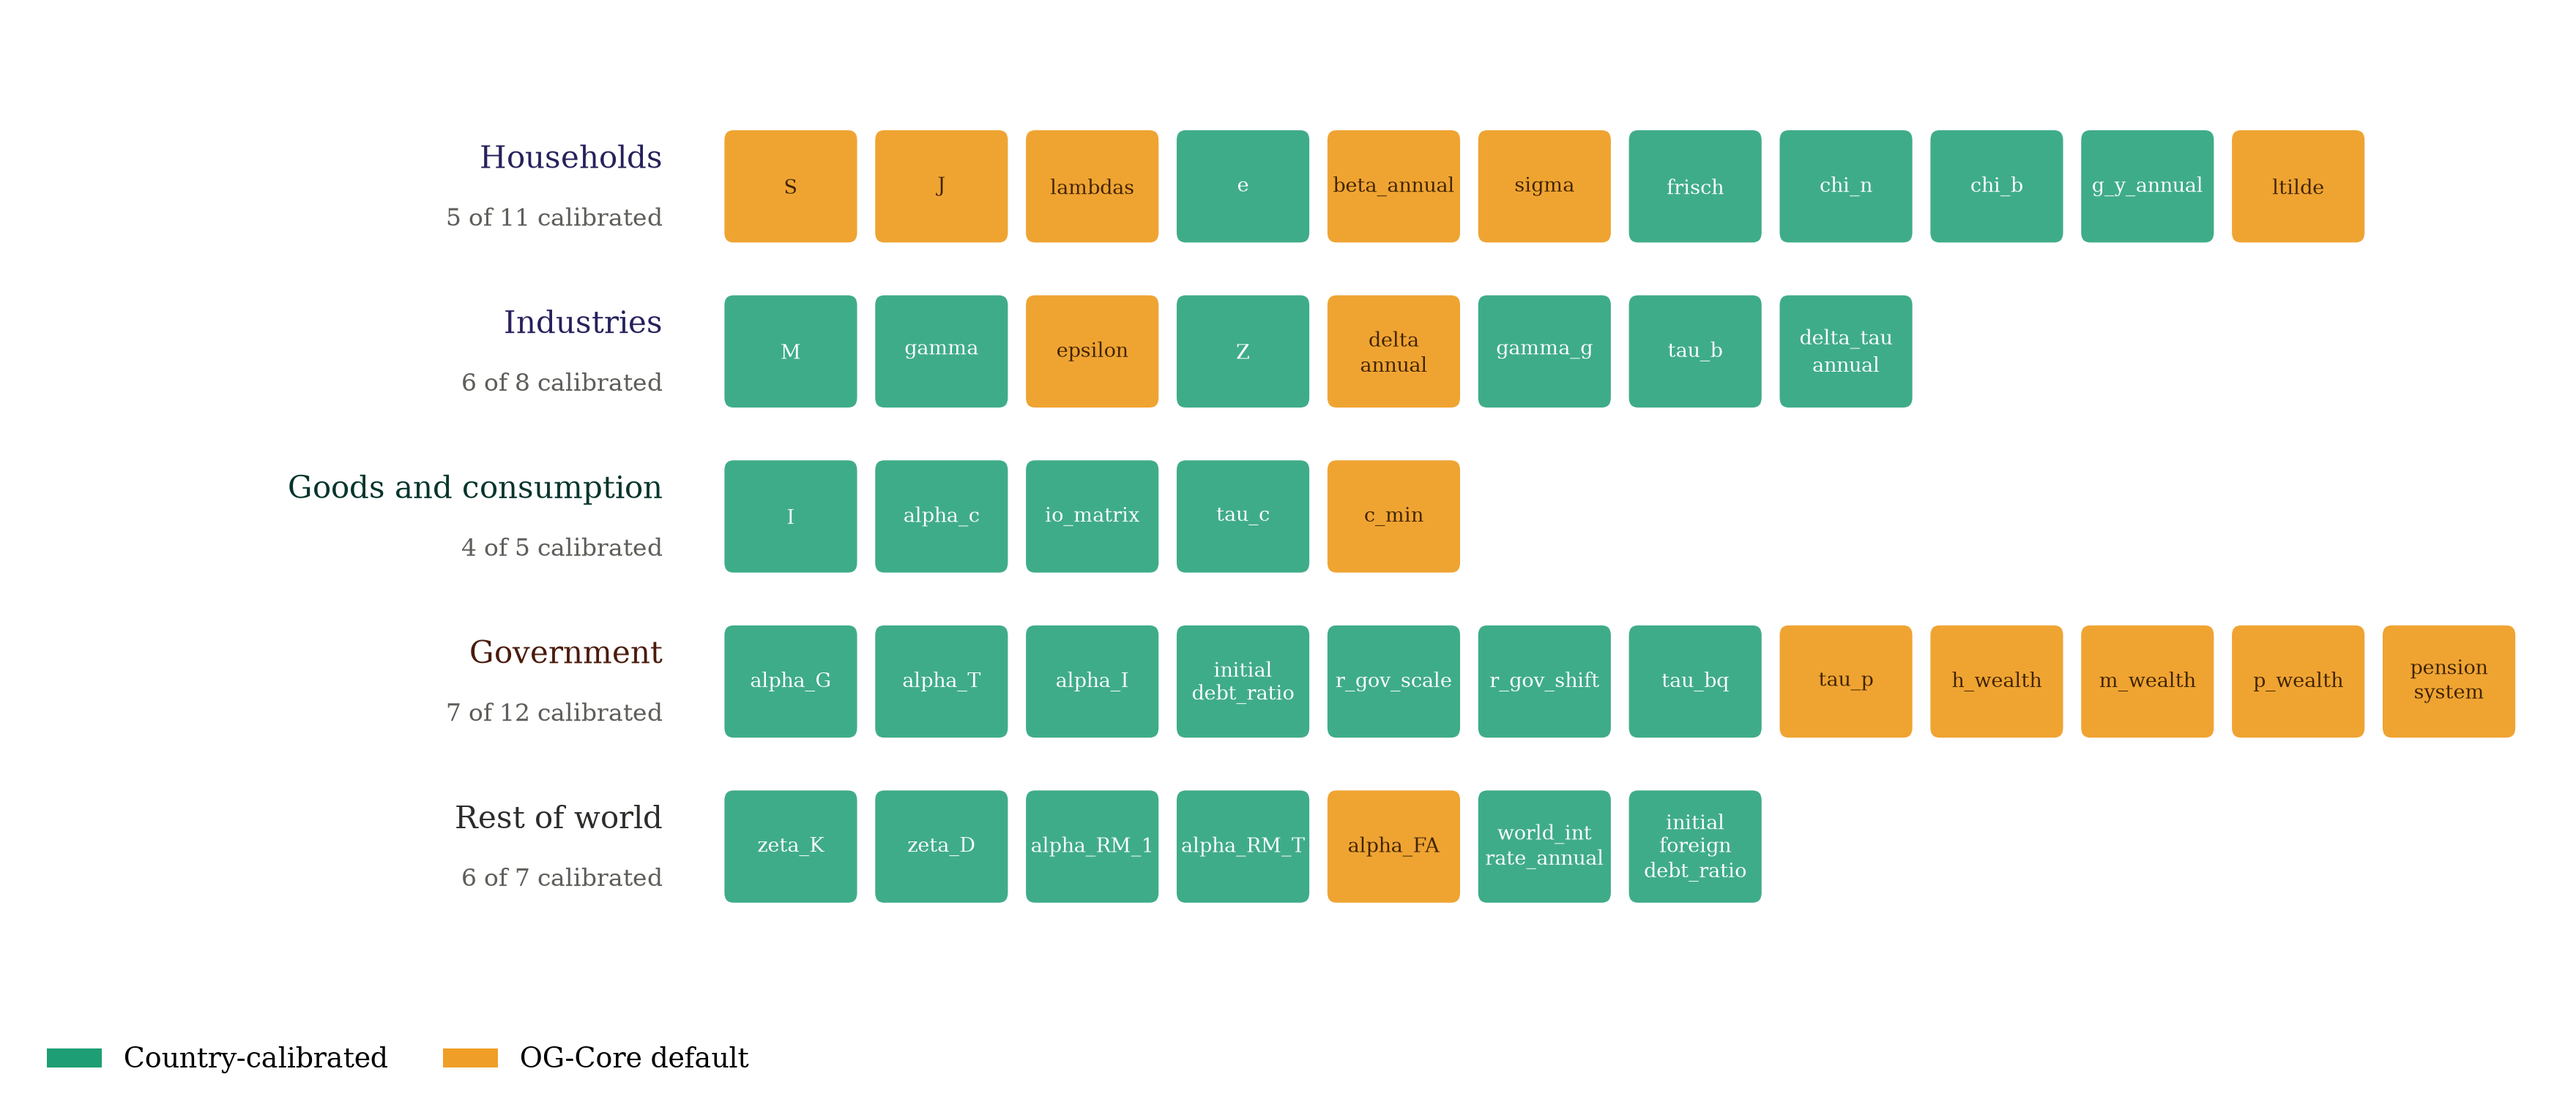
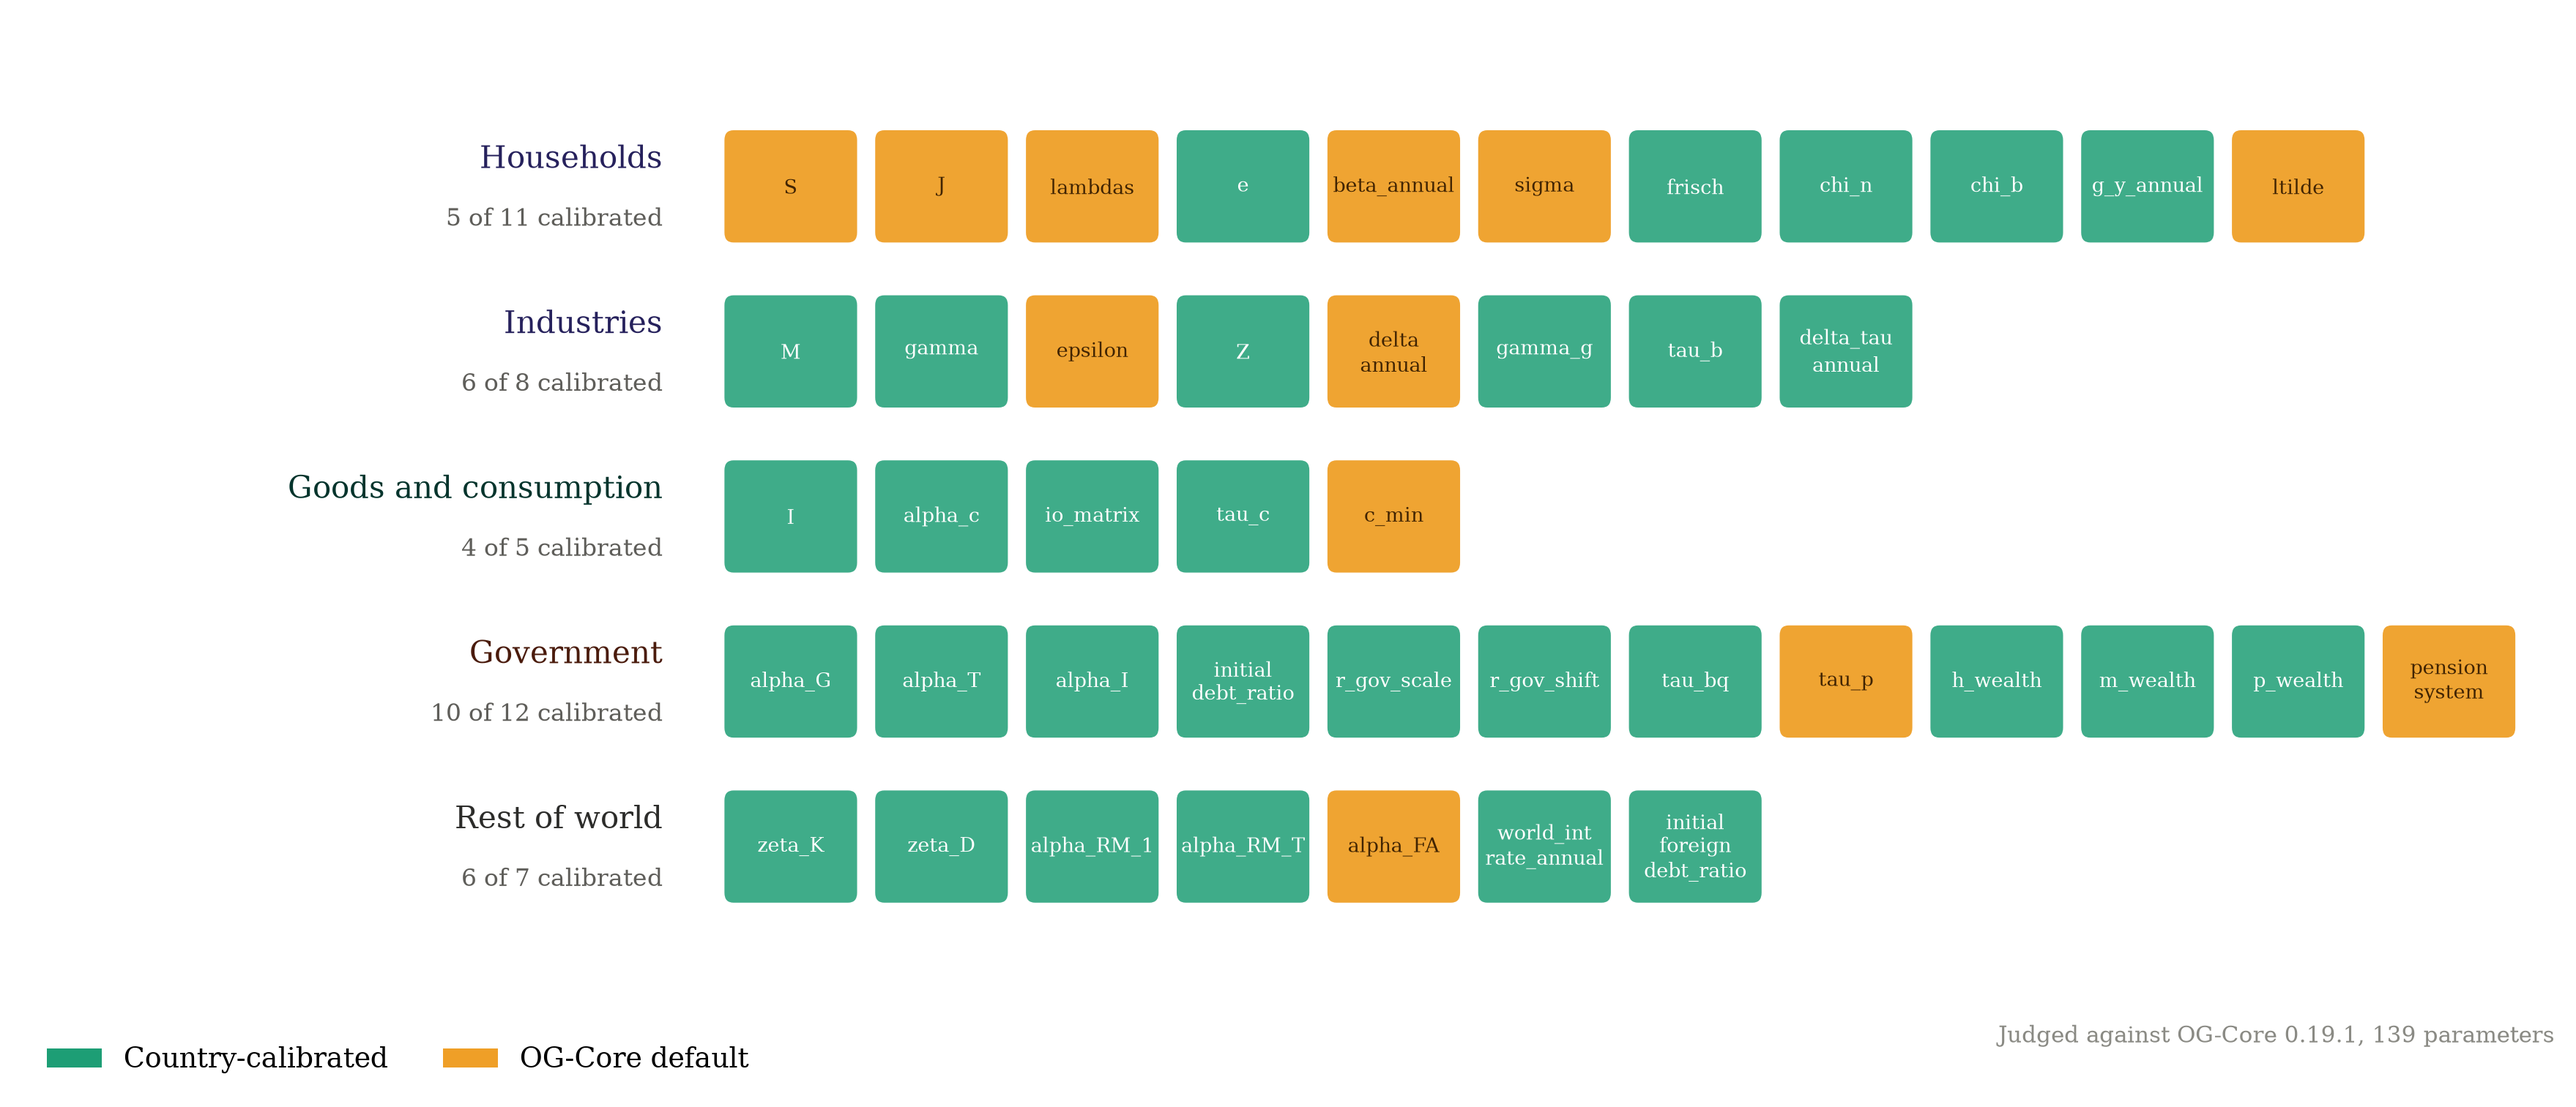
Regenerate the gallery against the build each country model runs on
The committed figures were wrong, not merely stale. They were drawn with an
OG-Core too old to read today's OG-PHL parameters at all, from a snapshot taken
before that calibration advanced, and against the wrong baseline for judging
what had been calibrated. The government block read 7 of 12 rather than 10 of
12, and the wealth tax showed as switched off when it is on -- so the diagram
was missing a channel, not just a number.

generate_gallery.py now loads structure_plots by path from its own checkout and
leaves OG-Core alone, so it runs inside the country's environment on the build
that model is pinned to. Neither half works without the other: an OG-Core
carrying these visuals cannot read a calibration that needs a newer parameter,
and the build that can read it does not carry the visuals. The README says so,
and says to read the baseline printed on the calibration figures before reading
the figures.

diff --git a/examples/structure_plots/generate_gallery.py b/examples/structure_plots/generate_gallery.py
@@ -5,15 +5,20 @@ Run it from the country repo's own environment, because it reads that
 package's parameter files and its industry and consumption-good labels:
 
     cd ~/Projects/OG-PHL
-    PYTHONPATH=~/Projects/OG-Core .venv/bin/python \
-        ~/Projects/OG-Core/examples/structure_plots/generate_gallery.py \
+    .venv/bin/python \
+        <this-checkout>/examples/structure_plots/generate_gallery.py \
         --package ogphl \
         --params ogphl_default_parameters.json \
         --overlay ogphl_multisector_default_parameters.json \
-        --moments ~/Projects/OG-Core/examples/structure_plots/phl_moments.csv \
+        --moments <this-checkout>/examples/structure_plots/phl_moments.csv \
         --out . --prefix phl_
 
-The figures in this directory were produced by exactly that command, against
+No PYTHONPATH, and nothing installed: OG-Core stays whichever build the
+country model is pinned to, and this script loads `structure_plots` by path
+from its own checkout. See `load_structure_plots` for why that combination is
+the one that works.
+
+The figures in examples/structure_plots were produced by that command against
 the OG-PHL multi-industry calibration.
 
 The Mermaid graph is written as a PNG, which needs the Mermaid CLI
@@ -24,6 +29,7 @@ write the source instead and skip that requirement.
 import argparse
 import importlib
 import importlib.resources
+import importlib.util
 import json
 import os
 
@@ -32,8 +38,39 @@ import matplotlib
 matplotlib.use("Agg")
 import matplotlib.pyplot as plt  # noqa: E402
 
-from ogcore import structure_plots  # noqa: E402
 from ogcore.parameters import Specifications  # noqa: E402
+
+
+def load_structure_plots():
+    """
+    Load the `structure_plots` module that ships with this checkout.
+
+    Taking it by path, rather than importing it from the installed OG-Core, is
+    deliberate. A country model is normally pinned to one OG-Core build, and
+    that build may not carry this module, while this checkout's own OG-Core may
+    be too old to read the country's parameters -- so neither half works alone.
+    Using the module from here and letting its own
+    `from ogcore.parameters import Specifications` resolve to the installed
+    build gives the combination that does work, and installs nothing anywhere.
+
+    Falls back to the installed module once this one ships inside OG-Core.
+    """
+    here = os.path.dirname(os.path.abspath(__file__))
+    path = os.path.normpath(
+        os.path.join(
+            here, os.pardir, os.pardir, "ogcore", "structure_plots.py"
+        )
+    )
+    if not os.path.exists(path):
+        from ogcore import structure_plots
+
+        return structure_plots
+    spec = importlib.util.spec_from_file_location(
+        "ogcore_structure_plots_local", path
+    )
+    module = importlib.util.module_from_spec(spec)
+    spec.loader.exec_module(module)
+    return module
 
 
 def load_json(package, name):
@@ -117,6 +154,7 @@ def main():
     )
     args = parser.parse_args()
 
+    structure_plots = load_structure_plots()
     p = build_parameters(args.package, args.params, args.overlay)
     industries, goods = read_labels(args.package)
     # A package's label lists describe its multi-industry setup; when the
@@ -148,7 +186,11 @@ def main():
         mermaid_fmt=args.mermaid_format,
     )
 
-    print(f"M = {p.M}, I = {p.I}")
+    baseline = structure_plots.calibration_baseline()
+    print(
+        f"M = {p.M}, I = {p.I}; judged against OG-Core "
+        f"{baseline['version']}, {baseline['parameters']} parameters"
+    )
     for name, path in written.items():
         print(f"  {name:20} {os.path.basename(path)}")
 

diff --git a/examples/structure_plots/README.md b/examples/structure_plots/README.md
@@ -10,18 +10,38 @@ The figures here were generated from the OG-PHL multi-industry calibration
 
 ```
 cd ~/Projects/OG-PHL
-PYTHONPATH=~/Projects/OG-Core .venv/bin/python \
-    ~/Projects/OG-Core/examples/structure_plots/generate_gallery.py \
+.venv/bin/python \
+    <this-checkout>/examples/structure_plots/generate_gallery.py \
     --package ogphl \
     --params ogphl_default_parameters.json \
     --overlay ogphl_multisector_default_parameters.json \
-    --moments ~/Projects/OG-Core/examples/structure_plots/phl_moments.csv \
-    --out ~/Projects/OG-Core/examples/structure_plots --prefix phl_
+    --moments <this-checkout>/examples/structure_plots/phl_moments.csv \
+    --out <this-checkout>/examples/structure_plots --prefix phl_
 ```
 
 Swap `ogphl` for `ogzaf`, `ogidn`, `ogbra` or `ogeth`, and drop `--overlay` for
 a single-industry model. Each country's data stays in its own repository; the
 script only reads it.
+
+Note what the command does **not** do: it sets no `PYTHONPATH` and installs
+nothing. It runs in the country's own environment, so OG-Core is whichever
+build that model is pinned to, and the script loads `structure_plots` by path
+from the checkout it ships in. That combination is deliberate, and it is the
+only one that works. A country calibration frequently needs an OG-Core newer
+than the one carrying these visuals -- OG-PHL's parameters require
+`initial_wealth_ratio`, and an OG-Core without it refuses the file outright --
+while the build that has it does not carry this module. Shadowing OG-Core with
+`PYTHONPATH`, or installing this branch into the country's environment, breaks
+one half or the other. Neither is necessary.
+
+## Read the baseline before reading the calibration figures
+
+`calibration_status` calls a parameter calibrated when its value differs from
+the one OG-Core ships, so its verdict is relative to the build that supplied
+the comparison, and both calibration figures print that build on themselves.
+This is not a footnote. The same Philippine parameters read 7 of 12 calibrated
+in the government block against one OG-Core build and 10 of 12 against another.
+Take the figure and the baseline together, or not at all.
 
 | File | What it shows |
 | --- | --- |
